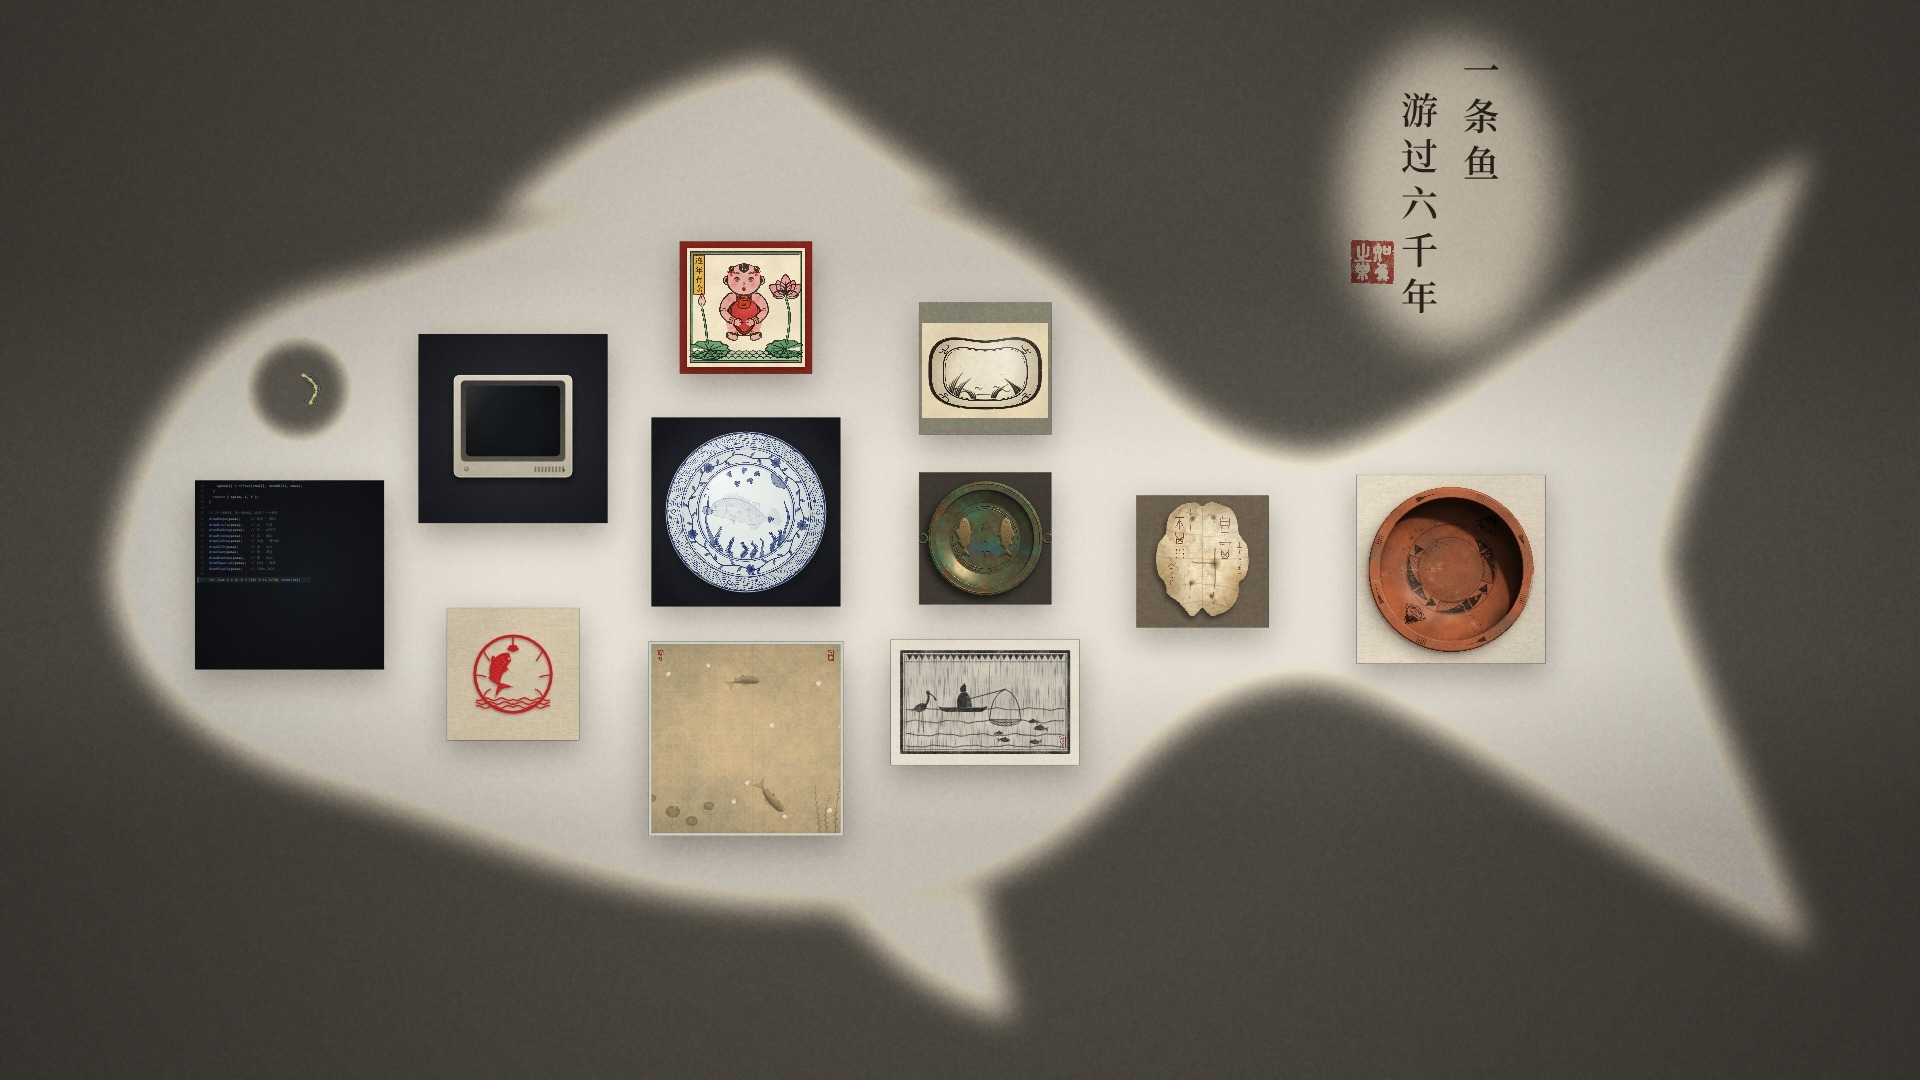
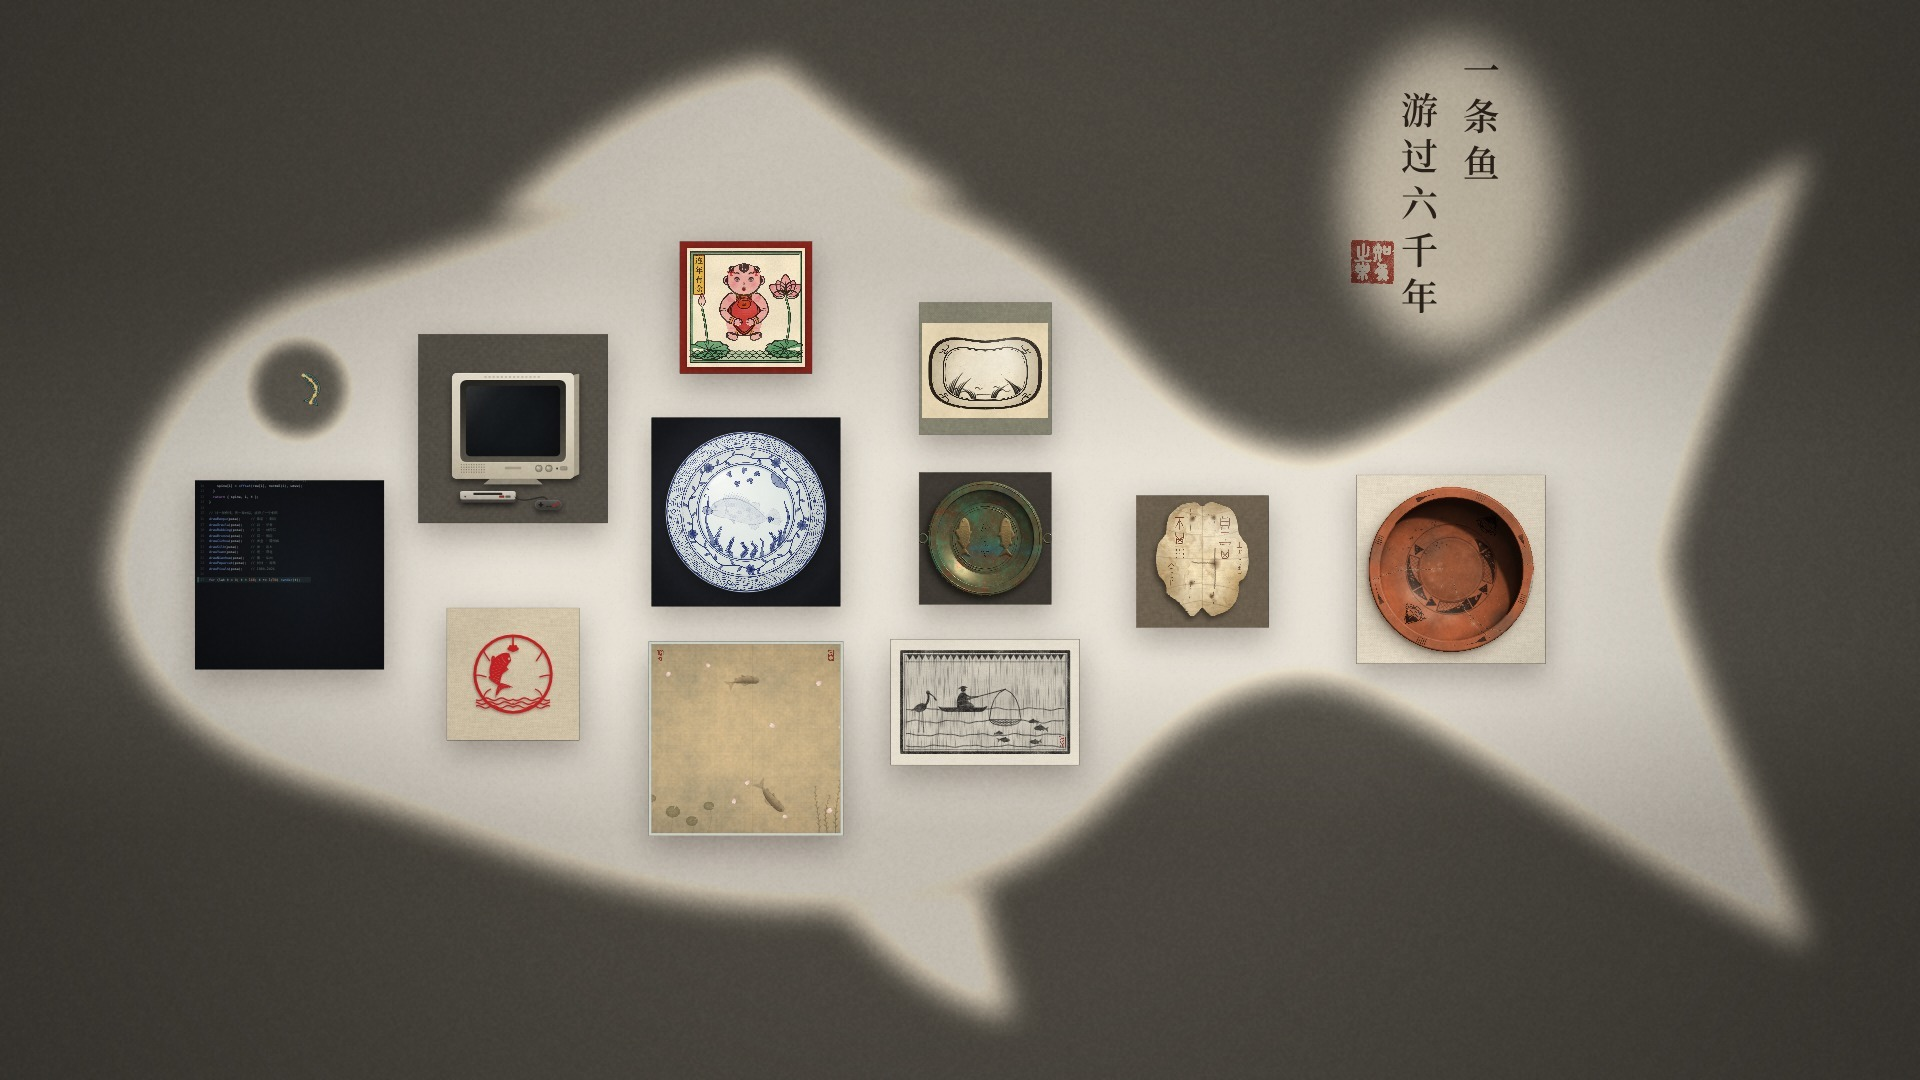
Refresh v1.5 artwork and production notes from the latest kit

Changed region(s): [[0.2188, 0.3056, 0.3438, 0.4889]]

diff --git a/docs/制作说明.md b/docs/制作说明.md
@@ -83,24 +83,24 @@ D — A — | B A F# — | E F# A — | E — D —
 |---|---|---|
 | 壹 彩陶（含片头） | 0:00 | `s1.js` |
 | 贰 甲骨 | 0:24 | `s2.js` |
-| 叁 拓片 | 0:32 | `s3.js` |
+| 叁 拓片 | 0:33 | `s3.js` |
 | 肆 铜洗 | 0:41 | `s4.js` |
-| 伍 磁州窑 | 0:48 | `s5.js` |
-| 陆 宋画 | 0:57 | `v3core.js`（画面）+ `s67.js`（接进全片） |
-| 柒 青花 | 1:15 | 同上 |
-| 捌 年画 | 1:43 | `s8.js` |
-| 玖 剪纸 | 1:51 | `s9.js` |
-| 拾 像素 | 2:00 | `s10.js` |
-| 拾壹 代码 + 终章 | 2:19 / 2:35 | `s11.js` |
+| 伍 磁州窑 | 0:49 | `s5.js` |
+| 陆 宋画 | 0:59 | `v3core.js`（画面）+ `s67.js`（接进全片） |
+| 柒 青花 | 1:17 | 同上 |
+| 捌 年画 | 1:45 | `s8.js` |
+| 玖 剪纸 | 1:53 | `s9.js` |
+| 拾 像素 | 2:02 | `s10.js` |
+| 拾壹 代码 + 终章 | 2:21 / 2:37 | `s11.js` |
 
 磁州窑那一站有个特别的地方：鱼停下来被画的时候，全片的钟会慢慢停住 3.4 秒，画完再慢慢走（`film/s5.js` 里的 `W5`）。
-别的站都还按原来的时间线写，播放和渲染时自动换算，所以改磁州窑的长短不用动后面任何一站。要改停多久，改 `W5H`，
+甲骨裂开以后、铜洗里三条鱼并排的时候，也各停了一下（同一个文件里的 `PAUSES`，0.85 秒和 1.1 秒）。
+别的站都还按原来的时间线写，播放和渲染时自动换算，所以改这几处停多久不用动后面任何一站。要改的话，
 同时改 `score_full.py` 开头的同名数字、`render.js` 里的 `FILM_SECONDS` 和 `film/player.js` 里的章节时刻。
-
-甲骨裂开后和铜洗三鱼并排时也有短暂停留，由 `film/s5.js` 的 `PAUSES` 控制，分别增加 0.85 秒和 1.1 秒。调整时需同步配乐、渲染时长和章节时间。
 
 像素那一站的四关（吃豆、横版、躲钩子、大鱼吃小鱼）里，豆、金币、小鱼都是按鱼原来的路线摆的：鱼在哪一拍游到哪，东西就放在哪（`film/s10.js` 的 `EV10`）。
 所以吃东西的那一下总是落在芯片音乐的拍子上；对应的音效在 `score_full.py` 里用的是同一套时刻（`MUS10`、`cellT`）。
+四关里那条鱼还是剪纸那一站同一副鲤鱼的比例、沿同一根脊线画，变的只是画法：前三关是像素画（硬边、只用那台机器有的颜色、外面一像素的黑边，眼睛和鳃一个像素一个像素地点），2003 那关是预渲染的 3D 精灵（`film/s10.js` 的 `gameFish`）。
 
 其余文件的分工：
 

diff --git a/CHANGELOG.md b/CHANGELOG.md
@@ -10,7 +10,7 @@ English · [中文](CHANGELOG.zh-CN.md)
 - Redraw the game fish for each era: monochrome, four-tone green, 16-color pixel art, and shaded sprites. Keep their backs upright through turns and refine eyes, fins, and smaller fish.
 - Add a detailed CRT housing, console, and wired controller to the pixel station.
 - Soften the xun's breath texture and extend sustained sounds across the new pauses.
-- Extend the film to 2:53.35 and update chapter timings and documentation.
+- Extend the film to 2:53.35, update chapter timings and documentation, and refresh the cover and station montage.
 
 ## [v1.4] — 2026-11-16
 

diff --git a/CHANGELOG.zh-CN.md b/CHANGELOG.zh-CN.md
@@ -10,7 +10,7 @@
 - 按年代重绘游戏鱼：黑白剪影、四级绿、十六色像素画和立体明暗精灵；转弯时保持背部朝上，并细化眼睛、鱼鳍和小鱼。
 - 为像素站加入显像管外壳、游戏主机和有线手柄。
 - 柔化埙的气息音色，并让持续音衔接新增停顿。
-- 将全片延长至 2:53.35，同步章节时间和文档。
+- 将全片延长至 2:53.35，同步章节时间和文档，更新封面及各站拼图。
 
 ## [v1.4] — 2026-11-16
 
